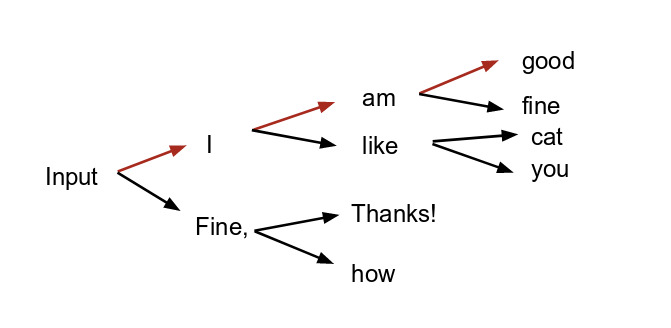
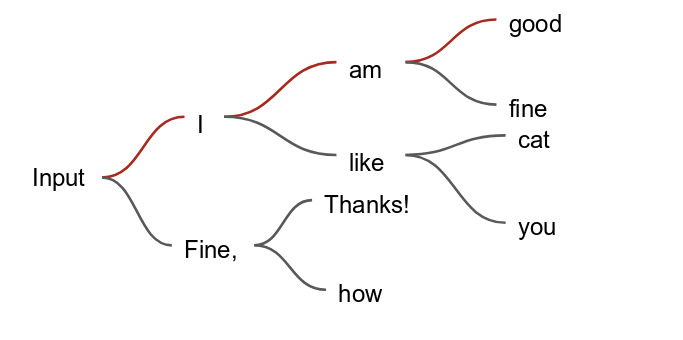
Update README and change beam.jpg.

diff --git a/README.md b/README.md
@@ -139,10 +139,14 @@ You can then run the following script to start the inference
 ```shell
 python3 -m graphqa.predict
 ```
+This will load the data into Neo4j database. Currently there is only command
+line interface available.
 
 ## Some technical details about the model
 
-We will not go into details of the [seq2seq](https://google.github.io/seq2seq/) model here. Instead, let's look at some other technical details that are used on top of seq2seq.
+We will not go into details of the [seq2seq](https://google.github.io/seq2seq/)
+model here. Instead, let's look at some other technical details that are used
+on top of seq2seq.
 
 ### Bahdanau Attention 
 
@@ -153,7 +157,6 @@ of the source sentence information while encoding. With this approach the
 information is spread throughout the sequence of annotations. By doing so, the
 algorithm improves the long sentence translations.
 
-
 <p align="center">
 <img width="80%" src="img/attention.jpg" />
 <br>
@@ -162,15 +165,22 @@ Figure 1. An illustration of the *attention mechanism* proposed by Bahdanau et a
 
 ### Bidirectional RNN Encoder
 
-The encoder 
-Bidirectionality on the encoder side generally gives better performance
+Bidirectionality on the encoder side generally gives better performance. It
+puts two independent RNN together. The input sequence is put into one RNN in
+normal order and the other RNN in reverse order.
+
 <p align="center">
 <img width="80%" src="img/bidirectional.jpg" />
 <br>
-Figure 1. Bidirectional RNN Encoder
+Figure 1. An illustration of the Bidirectional RNN Encoder.
 </p>
 
-### Beam Search
+### Beam Search Decoder
+
+Using beam search decoding can improve the code performance comparing with the
+greedy decoding. The idea of the beam search is to keep top N (beam width)
+token candidates at each step in memory. The next step is then expanded from
+these N tokens. 
 
 <p align="center">
 <img width="80%" src="img/beam.jpg" />
@@ -180,5 +190,9 @@ Figure 1. An illustration of the beam search with beam width 2.
 
 ### Dropout
 
+Dropout is a very simple way to prevent neural networks from overfitting. The
+main idea of dropout is to randomly drop a fraction of the units from the
+neural network during training. This prevents units from correlating too much. 
+A dropout value of 0.2 means that 80% of the units is kept.
 
 
